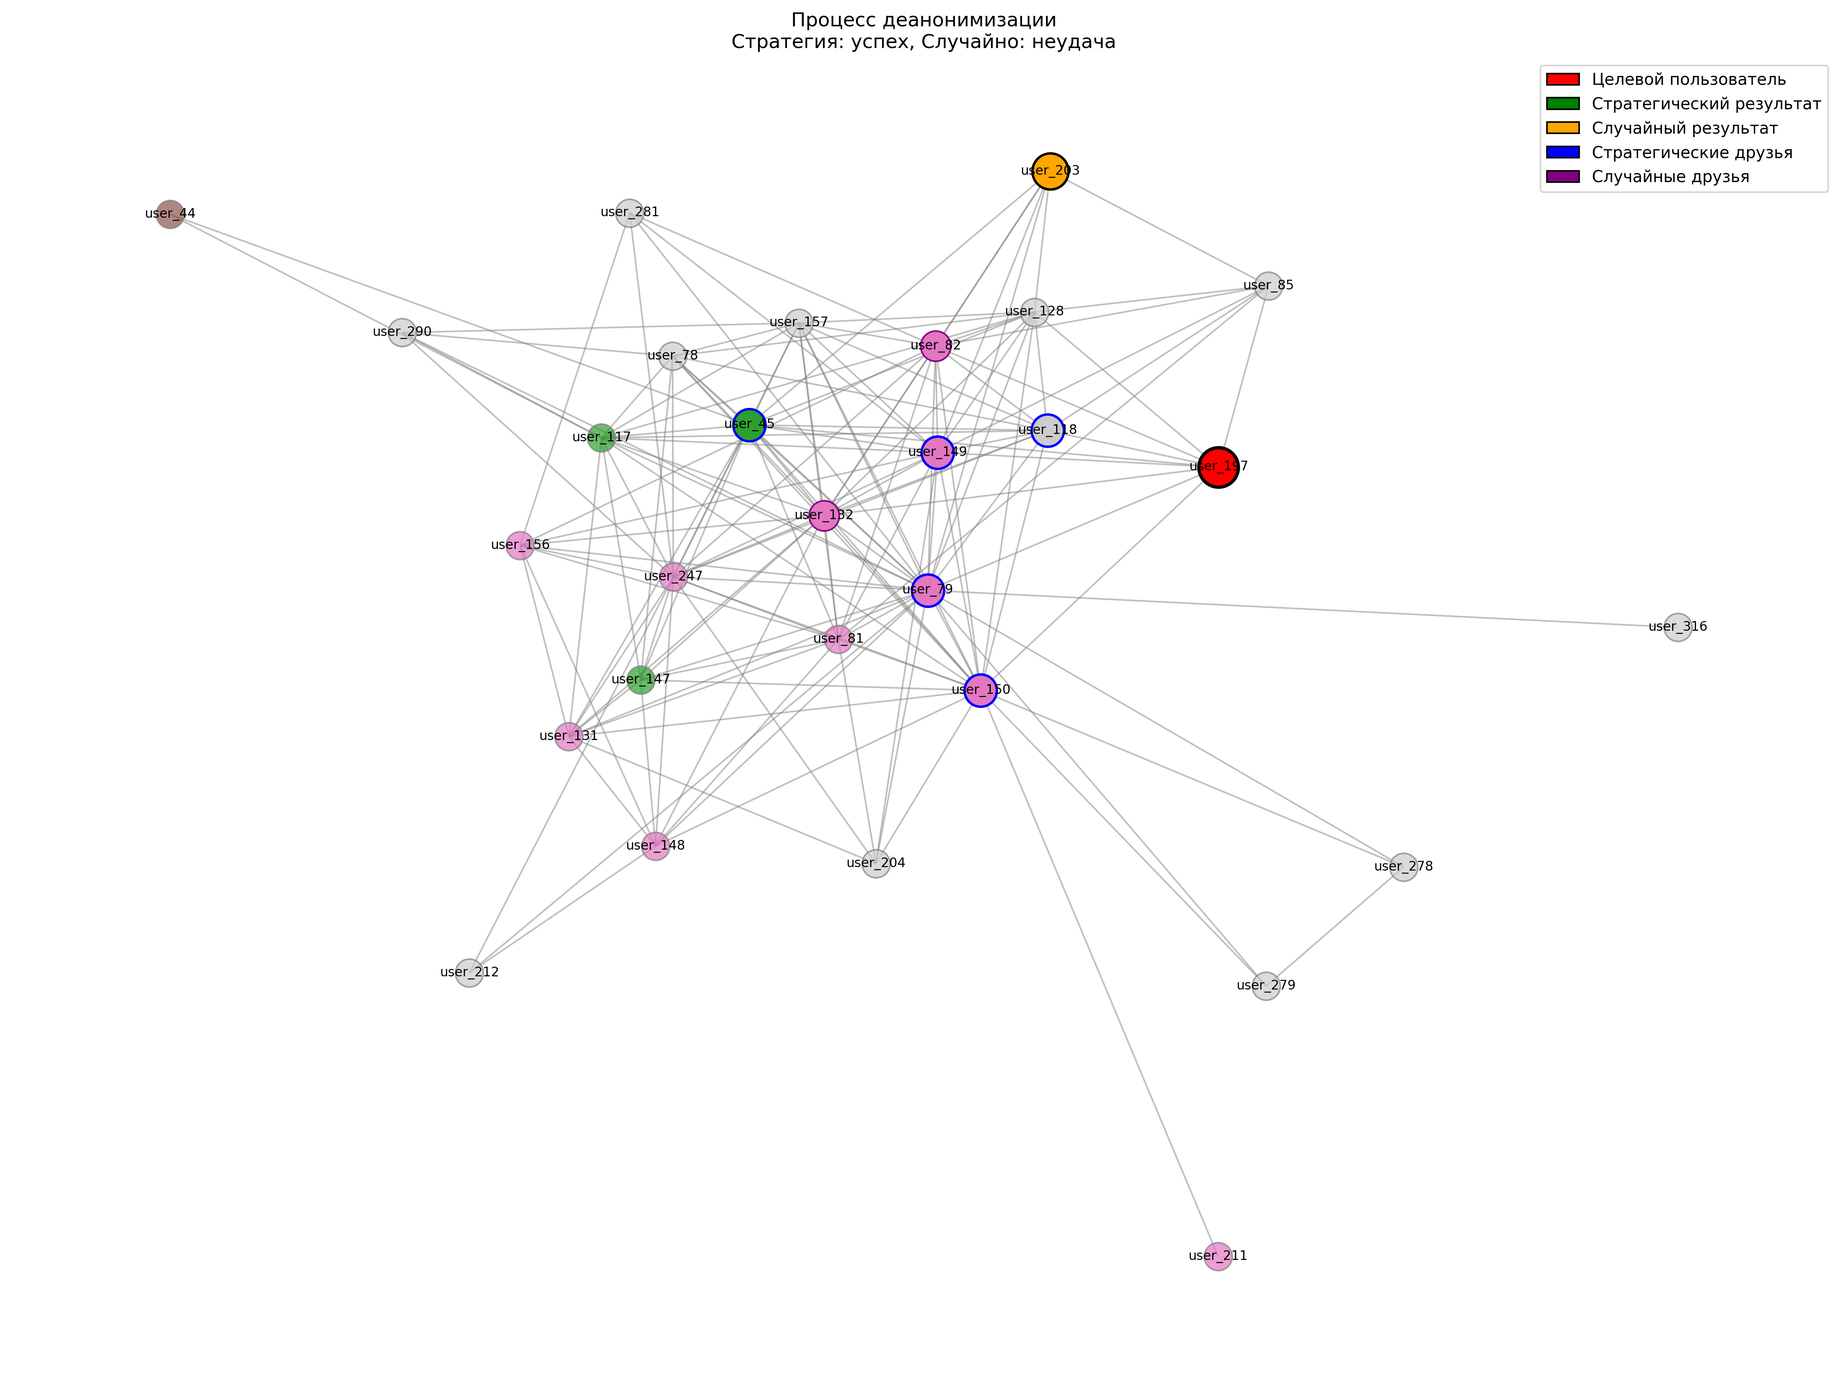
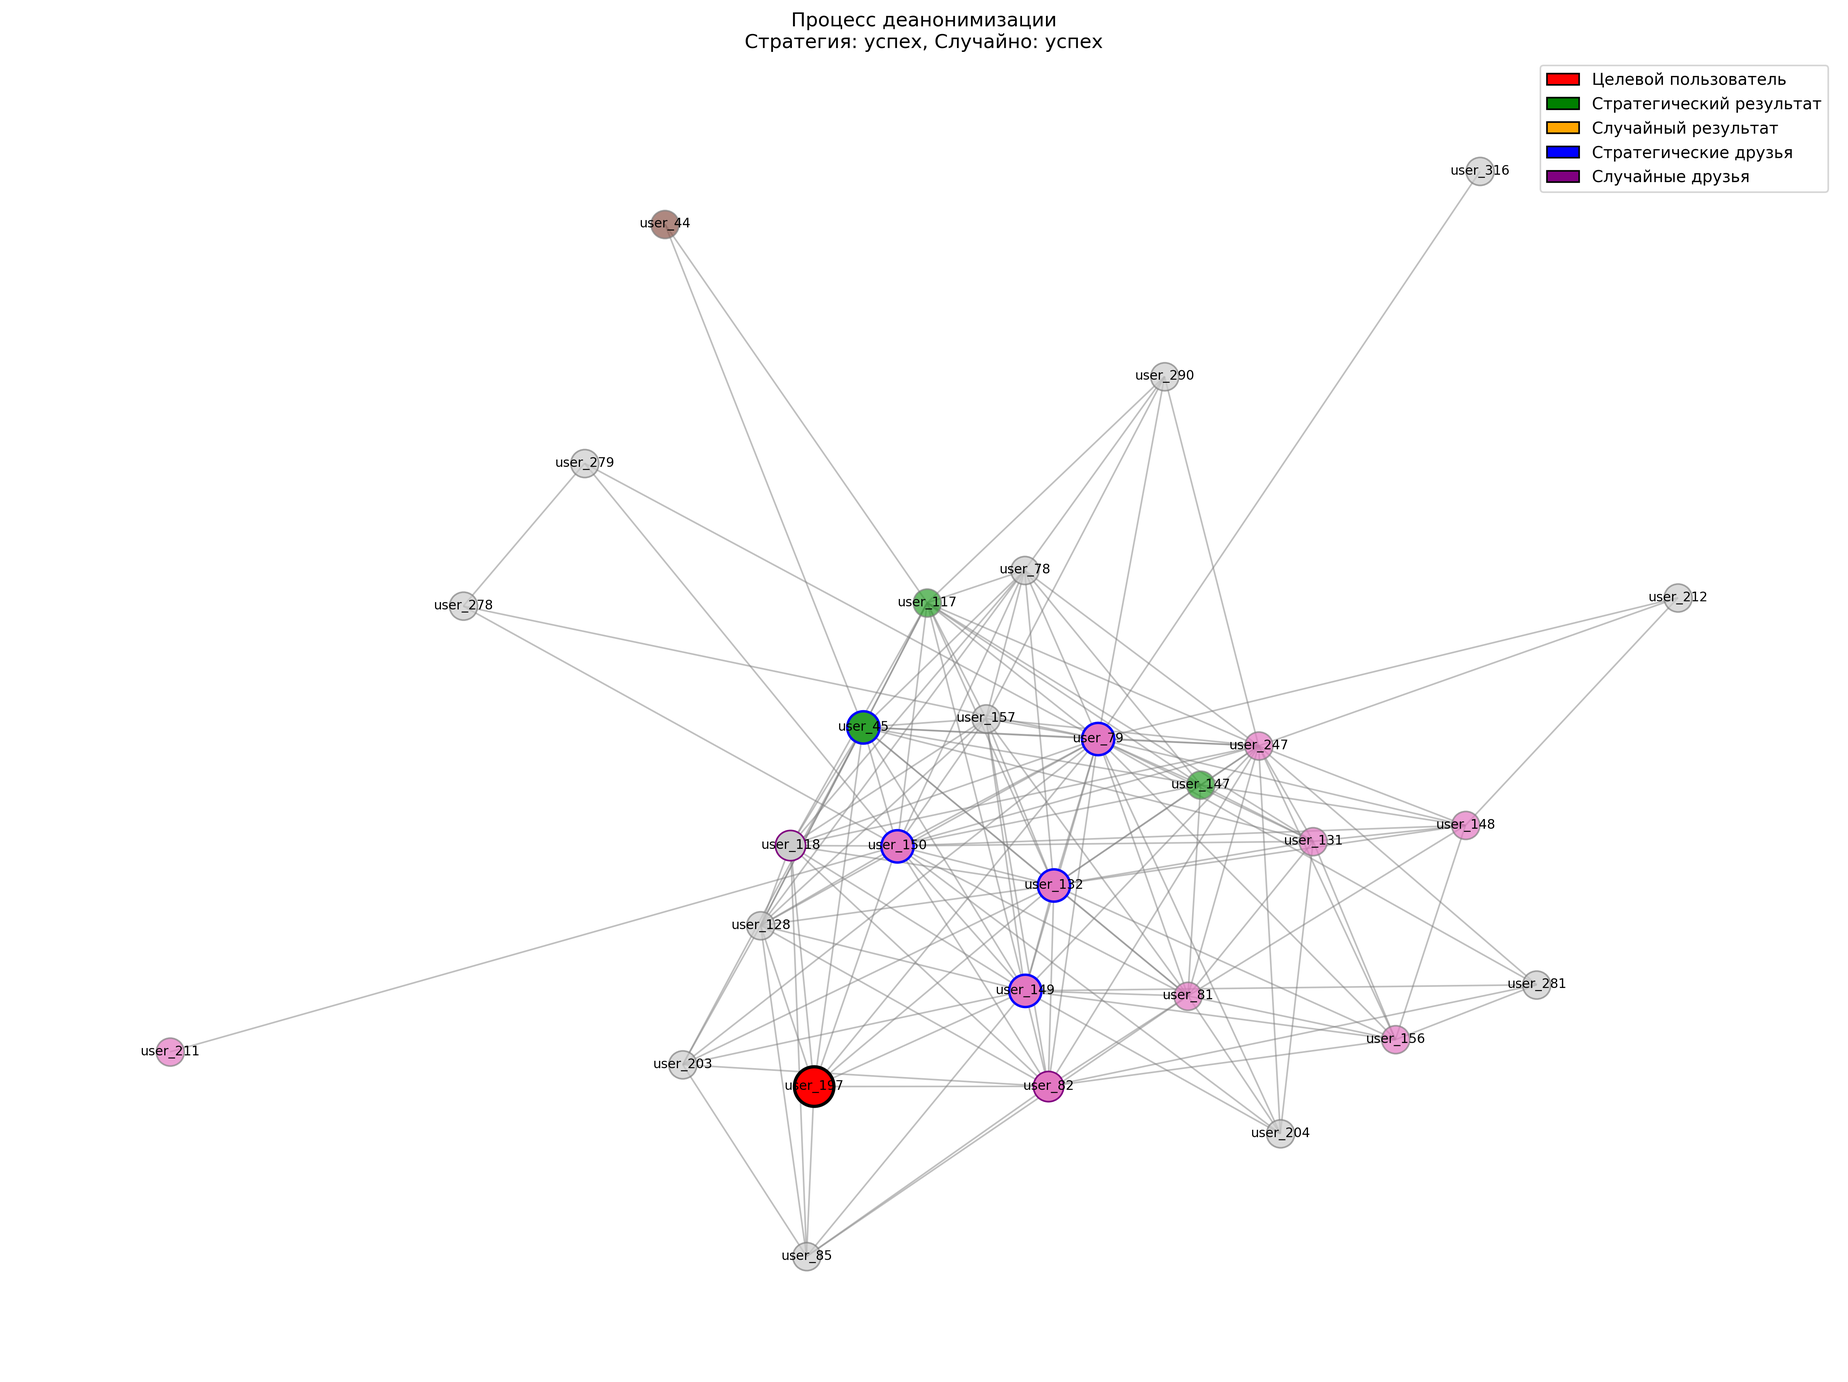
Поправил код

diff --git a/Поиск с кластеризацией/Cool_Search.py b/Поиск с кластеризацией/Cool_Search.py
@@ -6,17 +6,16 @@ import numpy as np
 from collections import defaultdict, Counter
 import random
 from networkx.algorithms import community as nx_community
-from sklearn.metrics import normalized_mutual_info_score
 import time
 
 
 SEED = 0 # None
 DATA_DIR = 'facebook'
 LOW_END_PC = True
-I_WANT_SEE = False
+I_WANT_SEE = True
 
 
-def load_facebook_social_circles_data(DATA_DIR, user_id=0):
+def load_facebook_social_circles_data(DATA_DIR, user_id):
     """
     Загружает данные Facebook Social Circles для конкретного пользователя
 
@@ -68,7 +67,7 @@ def detect_communities_with_multiple_methods(G):
         'modularity': modularity_louvain,
         'time': time.time() - start
     }
-    print(f"    Модулярность: {modularity_louvain:.4f} | Время: {results['louvain']['time']:.2f}с")
+    print(f"\tМодулярность: {modularity_louvain:.4f} | Время: {results['louvain']['time']:.2f}с")
 
 
     # 2. Girvan-Newman (только для небольших графов)
@@ -106,7 +105,7 @@ def detect_communities_with_multiple_methods(G):
         'modularity': modularity_lp,
         'time': time.time() - start
     }
-    print(f"    Модулярность: {modularity_lp:.4f} | Время: {results['label_prop']['time']:.2f}с")
+    print(f"\tМодулярность: {modularity_lp:.4f} | Время: {results['label_prop']['time']:.2f}с")
 
     # Выбираем лучший метод по модулярности
     best_method = max(results.items(), key=lambda x: x[1]['modularity'])[0]
@@ -115,60 +114,70 @@ def detect_communities_with_multiple_methods(G):
     return results, best_method
 
 
-def analyze_communities_vs_circles(G, circles, partition):
+def visualize_communities(G, partition, circles=None):
     """
-    Сравнивает обнаруженные сообщества с реальными кругами
-    Используем метрику НМИ (Normalized Mutual Information)
+    Визуализация найденных сообществ с возможностью сравнения с ground-truth
+    Мы не вычисляем NMI, а делаем возможность визуального анализа
     """
-    print("\nСРАВНЕНИЕ СООБЩЕСТВ С РЕАЛЬНЫМИ КРУГАМИ")
+    plt.figure(figsize=(16, 12))
 
-    # Подготавливаем данные для сравнения
-    node_to_circle = defaultdict(list)
-    for circle_id, (circle_name, members) in enumerate(circles.items()):
-        for node in members:
-            if node in G.nodes():
-                node_to_circle[node].append(circle_id)
+    # Цвета для сообществ
+    unique_comms = set(partition.values())
+    colors = plt.cm.tab20(range(len(unique_comms)))
+    comm_colors = {comm: colors[i] for i, comm in enumerate(unique_comms)}
 
-    # Если узел в нескольких кругах, выбираем самый большой
-    node_to_main_circle = {}
-    for node, circle_ids in node_to_circle.items():
-        if circle_ids:
-            node_to_main_circle[node] = circle_ids[0]  # Упрощение для примера
+    # Позиции узлов (фиксированные для сравнения)
+    pos = nx.spring_layout(G, seed=42) # "Эй братуха 42"
 
-    # Преобразуем partition в тот же формат
-    node_to_community = partition
+    # Рисуем узлы
+    for node in G.nodes():
+        comm_id = partition[node]
+        color = comm_colors[comm_id]
 
-    # Сравниваем только для общих узлов
-    common_nodes = set(node_to_main_circle.keys()) & set(node_to_community.keys())
+        # Если есть ground-truth круги, помечаем их границей
+        if circles:
+            in_circles = [name for name, members in circles.items() if node in members]
+            if in_circles:
+                edge_color = 'red'
+                edge_width = 2
+            else:
+                edge_color = 'gray'
+                edge_width = 1
+        else:
+            edge_color = 'gray'
+            edge_width = 1
 
-    if not common_nodes:
-        print("Нет общих узлов для сравнения")
-        return 0.0
+        nx.draw_networkx_nodes(G, pos, nodelist=[node],
+                               node_color=[color], node_size=300,
+                               edgecolors=edge_color, linewidths=edge_width)
 
-    # Создаем векторы для NMI
-    true_labels = [node_to_main_circle[node] for node in common_nodes]
-    pred_labels = [node_to_community[node] for node in common_nodes]
+    # Рисуем рёбра
+    nx.draw_networkx_edges(G, pos, alpha=0.5, edge_color='gray')
 
-    # Вычисляем NMI
-    nmi = normalized_mutual_info_score(true_labels, pred_labels)
+    # Создаем легенду для сообществ
+    legend_elements = []
+    for i, comm_id in enumerate(list(unique_comms)[:10]):  # первые 10 для легенды
+        legend_elements.append(plt.Line2D([0], [0], marker='o', color='w',
+                                          markerfacecolor=comm_colors[comm_id],
+                                          markersize=10, label=f'Сообщество {comm_id}'))
 
-    print(f"Нормализованная взаимная информация (NMI): {nmi:.4f}")
-    print("Интерпретация: 0 = нет совпадений, 1 = полное совпадение")
+    if circles:
+        legend_elements.append(plt.Line2D([0], [0], marker='o', color='w',
+                                          markerfacecolor='white', markeredgecolor='red',
+                                          markersize=10, label='В ground-truth кругах'))
 
-    # Анализируем, какие круги лучше всего обнаруживаются
-    circle_to_community = defaultdict(Counter)
-    for node in common_nodes:
-        circle_id = node_to_main_circle[node]
-        comm_id = node_to_community[node]
-        circle_to_community[circle_id][comm_id] += 1
-
-    print("\nСоответствие кругов обнаруженным сообществам:")
-    for circle_id, comm_counter in list(circle_to_community.items())[:5]:  # первые 5 для примера
-        total = sum(comm_counter.values())
-        top_comm = comm_counter.most_common(1)[0]
-        print(f"Круг {circle_id}: {total} узлов, {top_comm[1] / total:.1%} в сообществе {top_comm[0]}")
-
-    return nmi
+    plt.legend(handles=legend_elements, bbox_to_anchor=(1.05, 1), loc='upper left')
+    plt.title("Найденные сообщества")
+    plt.axis('off')
+    plt.tight_layout()
+    print("ВИЗУАЛИЗАЦИЯ СООБЩЕСТВ")
+    try:
+        plt.savefig("communities_visualization.png", dpi=300, bbox_inches='tight')
+        print("Сохранение успешно!")
+    except Exception as e:
+        print(f"Что-то пошло не так... {e}")
+    if I_WANT_SEE:
+        plt.show()
 
 
 def create_anonymous_graph(G):
@@ -180,64 +189,61 @@ def create_anonymous_graph(G):
 
 def select_strategic_friends(G, target_node, num_friends=5, partition=None, clustering=None):
     """
-    Стратегический выбор друзей для деанонимизации
-
-    Алгоритм выбора:
-    1. Приоритет 1: Друзья из разных сообществ (максимизируем охват)
-    2. Приоритет 2: Друзья с низкой кластеризацией (мостики между сообществами)
-    3. Приоритет 3: Друзья с высокой степенью (ключевые узлы)
+    Стратегический выбор друзей на основе структуры, найденной алгоритмом
+    Ключевой принцип: мы используем то разбиение, которое нашел алгоритм,
+    независимо от того, совпадает ли оно с ground-truth
     """
     friends = list(G.neighbors(target_node))
     if not friends or num_friends <= 0:
         return []
 
-    # Если данные о кластеризации не предоставлены, вычисляем их
+    # Если нет данных о кластеризации - вычисляем
     if partition is None:
         partition = community_louvain.best_partition(G)
     if clustering is None:
         clustering = nx.clustering(G)
 
-    # Подготовка данных для каждого друга
-    friend_data = []
-    for friend in friends:
-        # Принадлежность к сообществу
-        community_id = partition.get(friend, -1)
-
-        # Коэффициент кластеризации
-        cluster_coeff = clustering.get(friend, 0)
-
-        # Степень узла
-        degree = G.degree(friend)
-
-        friend_data.append({
-            'node': friend,
-            'community': community_id,
-            'clustering': cluster_coeff,
-            'degree': degree
-        })
-
-    # Группируем друзей по сообществам
+    # Группируем друзей по сообществам, найденным алгоритмом
     communities = defaultdict(list)
-    for data in friend_data:
-        communities[data['community']].append(data)
+    for friend in friends:
+        comm_id = partition.get(friend, -1)
+        communities[comm_id].append(friend)
 
-    # Выбираем по одному другу из разных сообществ (начиная с самых крупных)
+    # Критерий выбора внутри сообщества: низкая кластеризация + высокая степень
+    def friend_priority(friend):
+        cluster_coeff = clustering.get(friend, 0)
+        degree = G.degree(friend)
+        # Чем ниже кластеризация и выше степень, тем выше приоритет
+        return (cluster_coeff, -degree)
+
+    # Сортируем сообщества по размеру (от крупных к мелким)
+    sorted_comms = sorted(communities.items(), key=lambda x: len(x[1]), reverse=True)
+
     selected = []
-    sorted_communities = sorted(communities.items(),
-                                key=lambda x: len(x[1]), reverse=True)
+    used_communities = set()
 
-    for _, members in sorted_communities:
+    # 1. Сначала выбираем из разных сообществ
+    for comm_id, members in sorted_comms:
         if len(selected) >= num_friends:
             break
-        # Сортируем членов сообщества: приоритет друзьям с низкой кластеризацией
-        members_sorted = sorted(members, key=lambda x: (x['clustering'], -x['degree']))
-        selected.append(members_sorted[0]['node'])
 
-    # Если нужно больше друзей, добавляем оставшихся
+        # Сортируем членов по приоритету
+        members_sorted = sorted(members, key=friend_priority)
+
+        # Выбираем лучшего кандидата из сообщества
+        for candidate in members_sorted:
+            if candidate not in selected:
+                selected.append(candidate)
+                used_communities.add(comm_id)
+                break
+
+    # 2. Если не набрали достаточно - выбираем из самых информативных узлов
     if len(selected) < num_friends:
-        remaining = [data['node'] for data in friend_data if data['node'] not in selected]
-        additional = random.sample(remaining, min(num_friends - len(selected), len(remaining)))
-        selected.extend(additional)
+        remaining_friends = [f for f in friends if f not in selected]
+        # Сортируем по информативности: низкая кластеризация + высокая степень
+        remaining_sorted = sorted(remaining_friends,
+                                  key=lambda f: (clustering.get(f, 0), -G.degree(f)))
+        selected.extend(remaining_sorted[:num_friends - len(selected)])
 
     return selected[:num_friends]
 
@@ -411,6 +417,42 @@ def visualize_deanonymization_process(G, circles, target_node, strategic_friends
         plt.show()
 
 
+def analyze_community_structure(G, partition, target_node=None):
+    """
+    Визуальный анализ структуры сообществ без сравнения с ground-truth
+    Цель: понять, насколько осмысленно разбиение, которое нашел алгоритм
+    """
+    print("\n=== ВИЗУАЛЬНЫЙ АНАЛИЗ СТРУКТУРЫ СООБЩЕСТВ ===")
+    print("Анализируем: насколько осмысленно разбиение, найденное алгоритмом")
+
+    # Статистика по сообществам
+    comm_sizes = Counter(partition.values())
+    print(f"Найдено {len(comm_sizes)} сообществ")
+    print(
+        f"Размеры сообществ: min={min(comm_sizes.values())}, max={max(comm_sizes.values())}, avg={sum(comm_sizes.values()) / len(comm_sizes):.1f}")
+
+    # Анализ целевого узла (если указан)
+    if target_node and target_node in partition:
+        target_comm = partition[target_node]
+        friends = list(G.neighbors(target_node))
+
+        print(f"\nАнализ для целевого узла {target_node}:")
+        print(f"  Принадлежит к сообществу: {target_comm}")
+
+        # Распределение друзей по сообществам
+        friend_comms = Counter()
+        for friend in friends:
+            if friend in partition:
+                friend_comms[partition[friend]] += 1
+
+        print("  Распределение друзей по сообществам:")
+        for comm_id, count in friend_comms.most_common(5):
+            percent = count / len(friends) * 100 if friends else 0
+            print(f"    Сообщество {comm_id}: {count} друзей ({percent:.1f}%)")
+
+    # Визуализация
+    visualize_communities(G, partition)
+
 # Генерируем SEED, чтобы потом была возможность повторить эксперимент
 if SEED is None:
     SEED = random.randint(1, 1000)
@@ -425,7 +467,7 @@ partition = results[best_method]['partition']
 clustering = nx.clustering(G)
 
 # Шаг 4: Сравниваем сообщества с реальными кругами
-nmi = analyze_communities_vs_circles(G, circles, partition)
+nmi = visualize_communities(G, partition, circles)
 
 # Шаг 5: Выбираем случайного пользователя как "жертву"
 target_node = random.choice(list(G.nodes()))
@@ -489,4 +531,3 @@ visualize_deanonymization_process(
     strategic_friends, random_friends,
     strategic_match, random_match
 )
-
